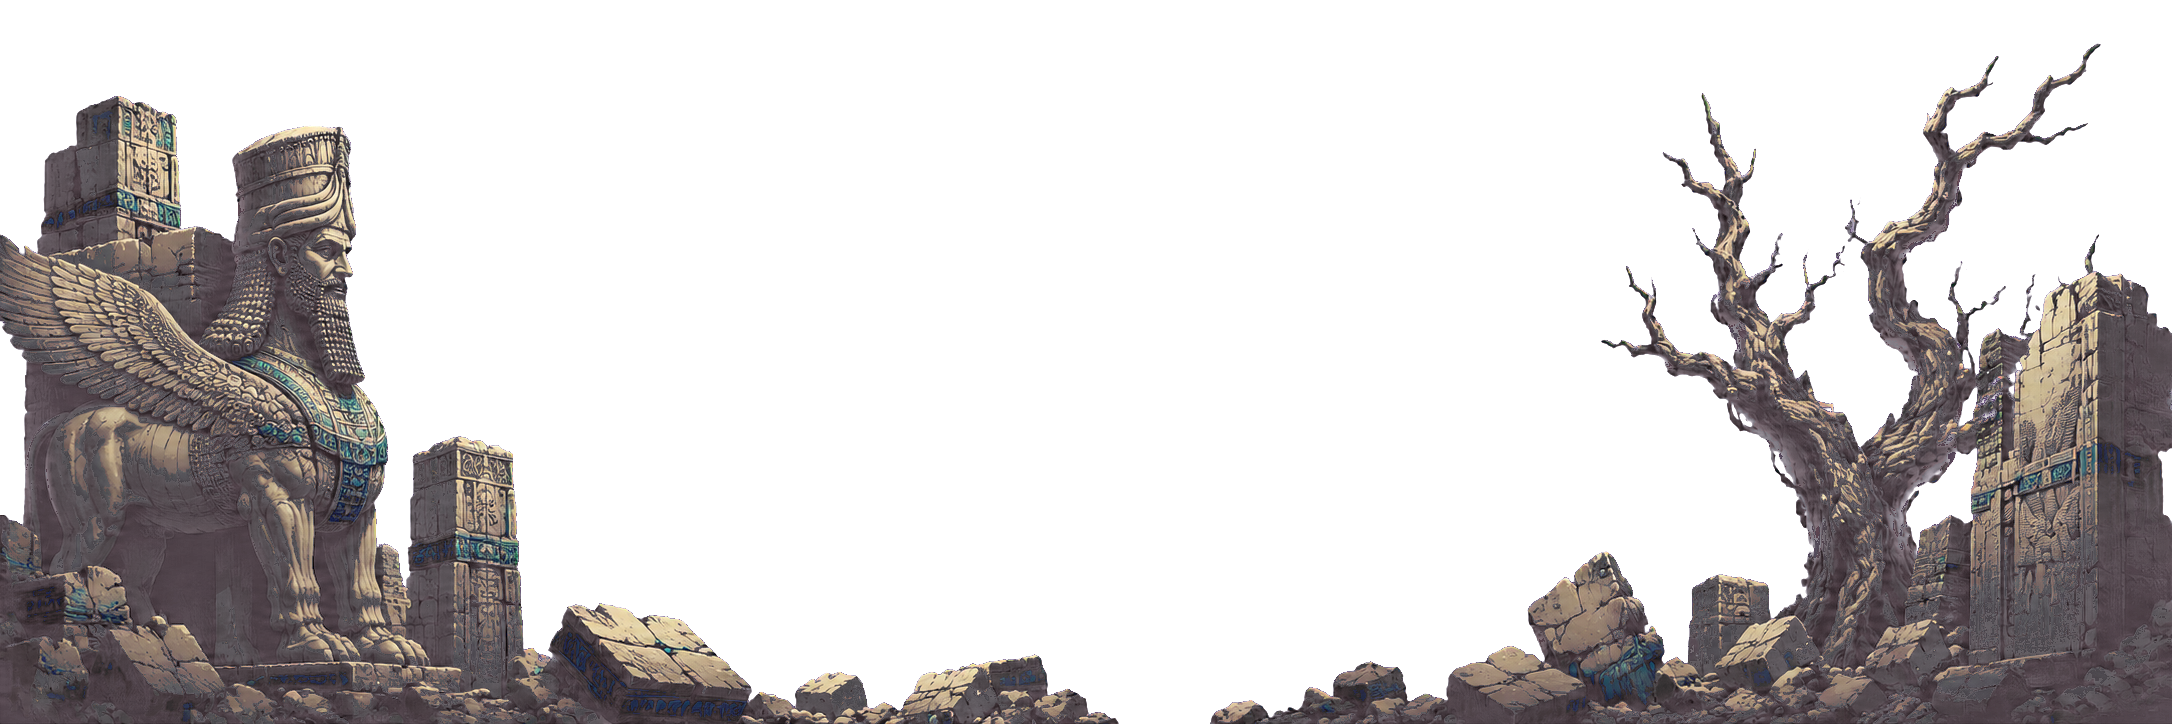
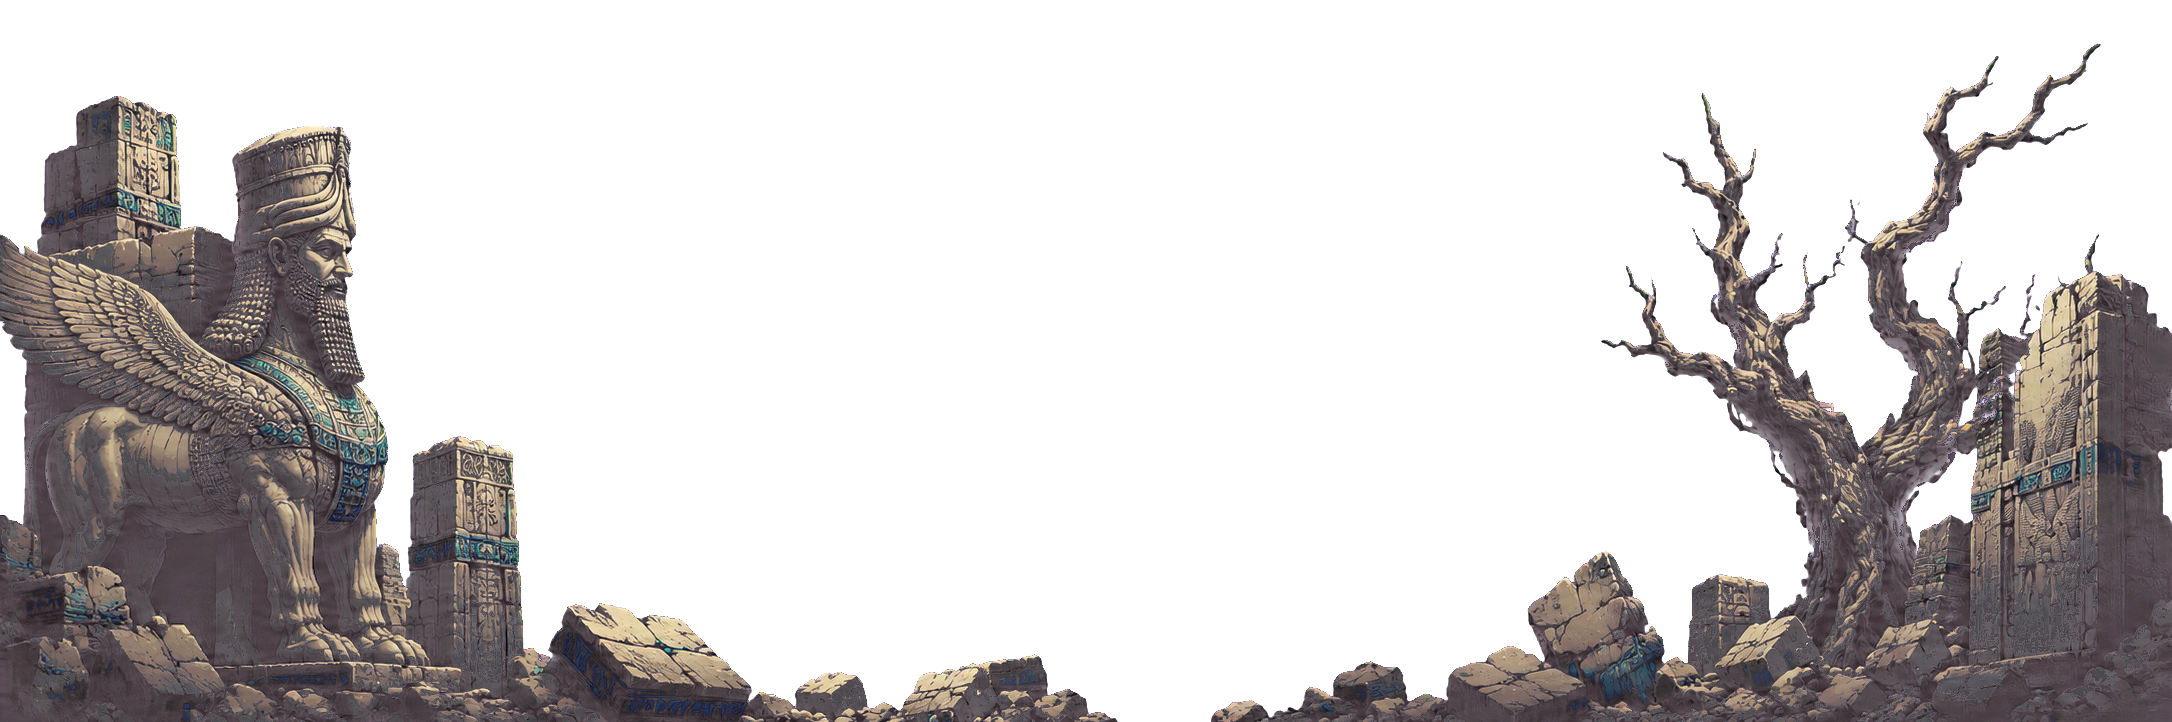
feat: mount mid parallax layer (scripted sky cutout) + near edge trim
Mid ruins-skyline extracted from the opaque delivery via column skyline scan
with windowed sky reference and morphological closing (narrow sky wells
filled, genuine gaps kept). Near loses its 2 bottom rows (bilinear edge
line). Definition now runs all four layers: sky/far/mid/near.

diff --git a/Assets/_Project/Scripts/Editor/EnvironmentImportTool.cs b/Assets/_Project/Scripts/Editor/EnvironmentImportTool.cs
@@ -35,6 +35,7 @@ namespace Mehawar.Greybox.EditorTools
         // sky (58.8u tall) bottoms one viewport below ground: the abyss glow (light from
         // below, Docs/31 §3) fills pits and the sub-ground band left free for future HUD.
         private const float FarYOffset = 11.25f / 2f;              // bottom at ground
+        private const float MidYOffset = 9.8125f / 2f;             // 157px band, bottom at ground
         private const float NearYOffset = 45.25f / 2f - 1f;        // bottom at ground - 1
         private const float SkyYOffset = 58.8f / 2f - 19.5f;       // bottom at ground - 19.5: the
         // glow band is ~15u tall, so this keeps the bright mint below the regular viewport
@@ -45,9 +46,9 @@ namespace Mehawar.Greybox.EditorTools
         {
             new LayerConfig { File = "r1_sky.png",  Name = "sky",  ScrollX = 0.05f, SortingOrder = -100, TileH = false, YOffset = SkyYOffset },
             new LayerConfig { File = "r1_far.png",  Name = "far",  ScrollX = 0.15f, SortingOrder = -80,  TileH = true, YOffset = FarYOffset },
-            // mid: awaiting the RGBA re-export — the current file is an opaque full scene
-            // that would occlude far/sky entirely. Imported, but kept out of the definition.
-            new LayerConfig { File = "r1_mid.png",  Name = "mid",  ScrollX = 0.35f, SortingOrder = -60,  TileH = true, InDefinition = false },
+            // mid: ruins skyline band, sky removed via scripted cutout (column skyline scan
+            // + morphological closing) from the opaque full-scene delivery.
+            new LayerConfig { File = "r1_mid.png",  Name = "mid",  ScrollX = 0.35f, SortingOrder = -60,  TileH = true, YOffset = MidYOffset },
             // near is tinted down: its pale statue masses compete in value with the greybox
             // playfield (readability gate, Docs/31 §5) — darken via tint, never regenerate.
             new LayerConfig { File = "r1_near.png", Name = "near", ScrollX = 0.60f, SortingOrder = -40,  TileH = true, Tint = new Color(0.62f, 0.62f, 0.70f), YOffset = NearYOffset },